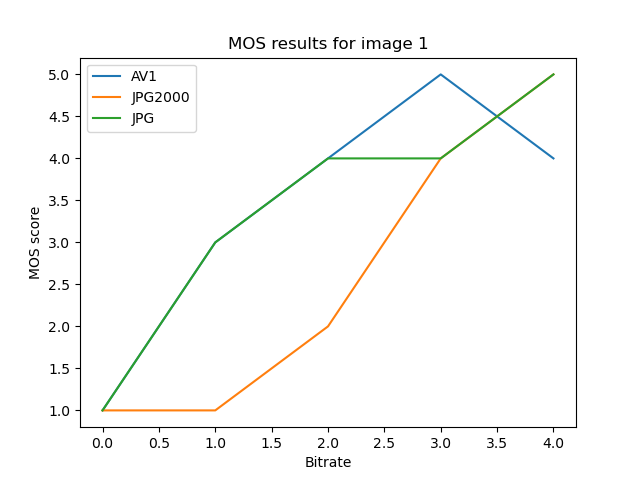
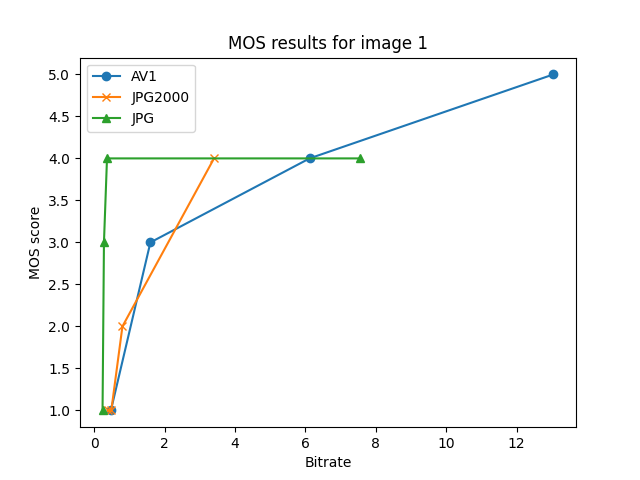
updated graphs

diff --git a/generateGraphs.py b/generateGraphs.py
@@ -3,6 +3,7 @@ import pandas as pd
 import numpy as np
 import os
 from tqdm import tqdm
+import cv2
 
 def create_dir(objective_metrics):
     if not os.path.exists('graphs'):
@@ -11,14 +12,56 @@ def create_dir(objective_metrics):
             os.mkdir(f'graphs/{metric}')
     
         os.mkdir('graphs/MOS')
+        
+def get_bpp(img_path):
+    resolution = 563000
+    size = os.stat(img_path).st_size * 8
+    
+    return size / resolution
+    
+        
+def get_bitrate_values(image_index):
+    codec_list = {'JPG':'jpg', 'JPG2000':'jp2', 'AV1':'mp4'} 
 
+    # Para cada bitrate [1,..,n], encontrar o bpp para a imagem i+1
+    # Criar três listas, uma para cada codec
+    X_t = [[],[],[]]
+    for i in range(4):
+        # AV1
+        X_t[0].append(get_bpp(f'images/AV1/bitrate-{i+1}/{int(image_index[-1]) + 1}.{codec_list["AV1"]}'))
+        
+        # JPG
+        X_t[1].append(get_bpp(f'images/JPG/bitrate-{i+1}/{int(image_index[-1]) + 1}.{codec_list["JPG"]}'))
+        
+        # JPG2000
+        X_t[2].append(get_bpp(f'images/JPG2000/bitrate-{i+1}/{int(image_index[-1]) + 1}.{codec_list["JPG2000"]}'))
+        
+    return X_t
+               
 def create_graph(file_path, results_list, codecs):
     # Reset plot
     plt.clf()
 
-    X = [i for i in range(len(results_list[0]))]
+    X = get_bitrate_values(file_path.split('/')[-1].split('.')[0])
     for i,codec_results in enumerate(results_list):
-        plt.plot(X, codec_results, label=codecs[i])
+        plt.plot(X[i], codec_results, label=codecs[i])
+    
+    plt.xlabel("Bitrate")
+    plt.ylabel(f"{file_path.split('/')[1]} score")
+    plt.title(f"{file_path.split('/')[1]} results for image {file_path.split('/')[2].split('.')[0][-1]}")
+
+    plt.legend()
+    plt.savefig(file_path)
+    
+def create_graph_mos(file_path, results_list, codecs):
+    # Reset plot
+    plt.clf()
+
+    X = get_bitrate_values(file_path.split('/')[-1].split('.')[0])
+    marker_list = ['o', 'x', '^']
+    for i,codec_results in enumerate(results_list):
+        codec_results = codec_results[:-1]
+        plt.plot(X[i], codec_results, label=codecs[i], marker=marker_list[i])
     
     plt.xlabel("Bitrate")
     plt.ylabel(f"{file_path.split('/')[1]} score")
@@ -65,10 +108,10 @@ def create_mos_graphs():
         for codec_df in df_list:
             image_results.append(list(codec_df[f'Image {i+1}'])) # This list contains the bitrates values for each codec
         
-        create_graph(f'graphs/MOS/Image{i + 1}.png', image_results, codecs)
+        create_graph_mos(f'graphs/MOS/Image{i + 1}.png', image_results, codecs)
     
 
-if __name__ == '__main__':
+if __name__ == '__main__':    
     print("Generating graphs for objective evaluation")
     create_objective_graphs()
     print('\n__________________________________________\n')

diff --git a/objectiveTest.py b/objectiveTest.py
@@ -8,7 +8,7 @@ import os
 from tqdm import tqdm
 
 SCORES_DIR = {}
-CODEC_LIST = {'JPG':'jpg', 'JPG2000':'jp2', 'AV1':'png'} # Name followed by extension
+CODEC_LIST = {'JPG':'jpg', 'JPG2000':'jp2', 'AV1':'mp4'} # Name followed by extension
 BITRATE_LIST = ['bitrate-1', 'bitrate-2', 'bitrate-3', 'bitrate-4']
 
 def initialize_dict():
